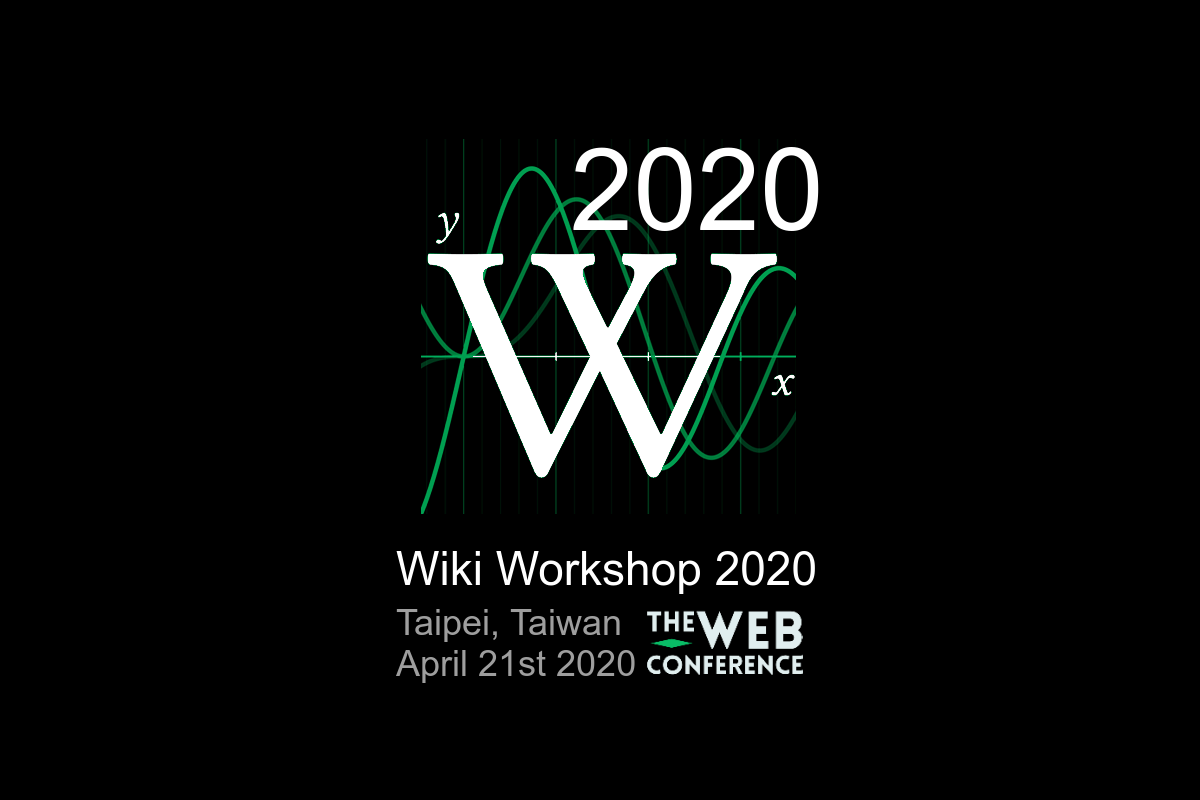
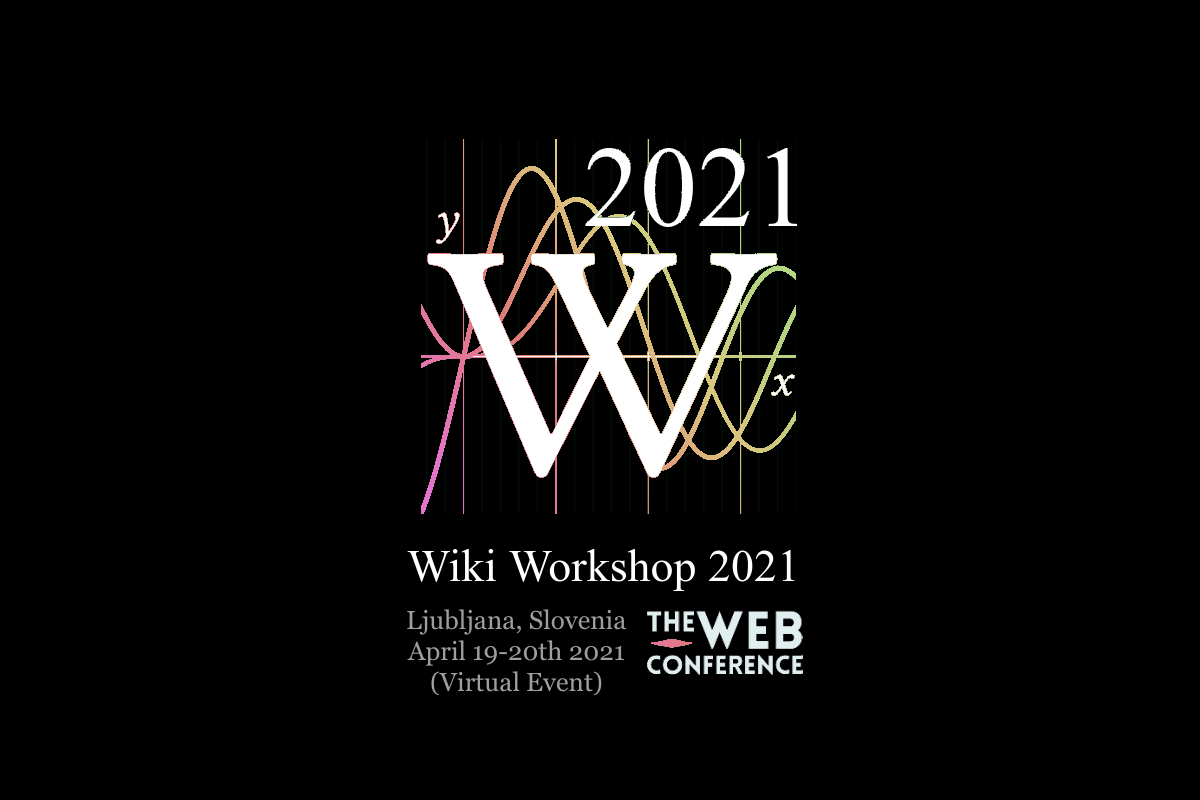
Update events page -- new WikiWorkshop plus finally new screenshot of Showcase playlist.
Bug: T219903

diff --git a/events.html b/events.html
@@ -61,13 +61,13 @@
 								<p><a target="_blank" href="http://wikiworkshop.org/">Wiki Workshop</a> is the annual wikimedia research forum hosted at a major scholarly conference, bringing together researchers exploring all aspects of Wikipedia and other Wikimedia projects.</p>
 									<figure>
 										<a target="_blank" href="http://wikiworkshop.org/"><img src="img/screenshots/WikiWorkshop.png" title="Wiki Workshop" alt="banner of Wiki Workshop 2019, hosted at the Web Conference 2019 in San Francisco, California, USA"></a>
-										<figcaption class="figure__caption">Wiki Workshop 2020 banner. <a href="https://commons.wikimedia.org/wiki/File:Wiki_Workshop_2020_banner.png">Image by Miriam Redi</a>, CC BY SA.</figcaption>
+										<figcaption class="figure__caption">Wiki Workshop 2021 banner. <a href="https://commons.wikimedia.org/wiki/File:Wiki_Workshop_Banner_2021.png">Image by Miriam Redi</a>, CC BY SA.</figcaption>
 									</figure>
 							<h3>Wikimedia Research Showcase</h3>
 								<p>The <a target="_blank" href="https://www.mediawiki.org/wiki/Wikimedia_Research/Showcase">Wikimedia Research Showcase</a> is a monthly public showcase of recent research by Research team members, collaborators, and guest presenters from the scholarly research community.</p>
 									<figure>
-										<a target="_blank" href="https://www.youtube.com/playlist?list=PLhV3K_DS5YfLQLgwU3oDFiGaU3K7pUVoW"><img src="img/screenshots/Research Showcase.png" title="Wikimedia Research Showcase" alt="screenshot of videos from the monthly Wikimedia Research Showcase"></a>
-										<figcaption class="figure__caption">A playlyst of videos from the Wikimedia Research Showcase. Fair use image.</figcaption>
+										<a target="_blank" href="https://www.youtube.com/playlist?list=PLhV3K_DS5YfLQLgwU3oDFiGaU3K7pUVoW"><img src="img/screenshots/Research_Showcase.png" title="Wikimedia Research Showcase" alt="screenshot of videos from the monthly Wikimedia Research Showcase"></a>
+										<figcaption class="figure__caption">A playlist of videos from the Wikimedia Research Showcase. Fair use image.</figcaption>
 									</figure>
 					</section>
 					<section id="other-events">
